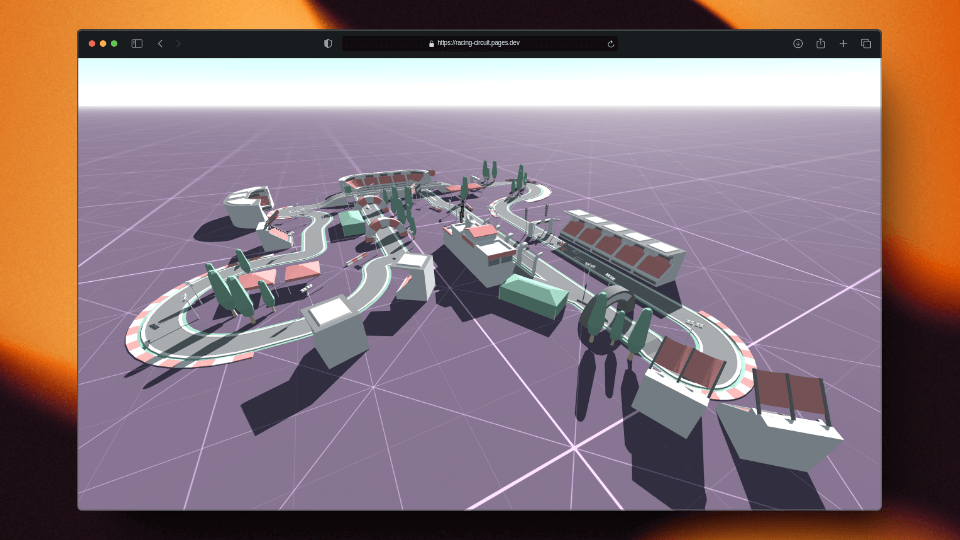
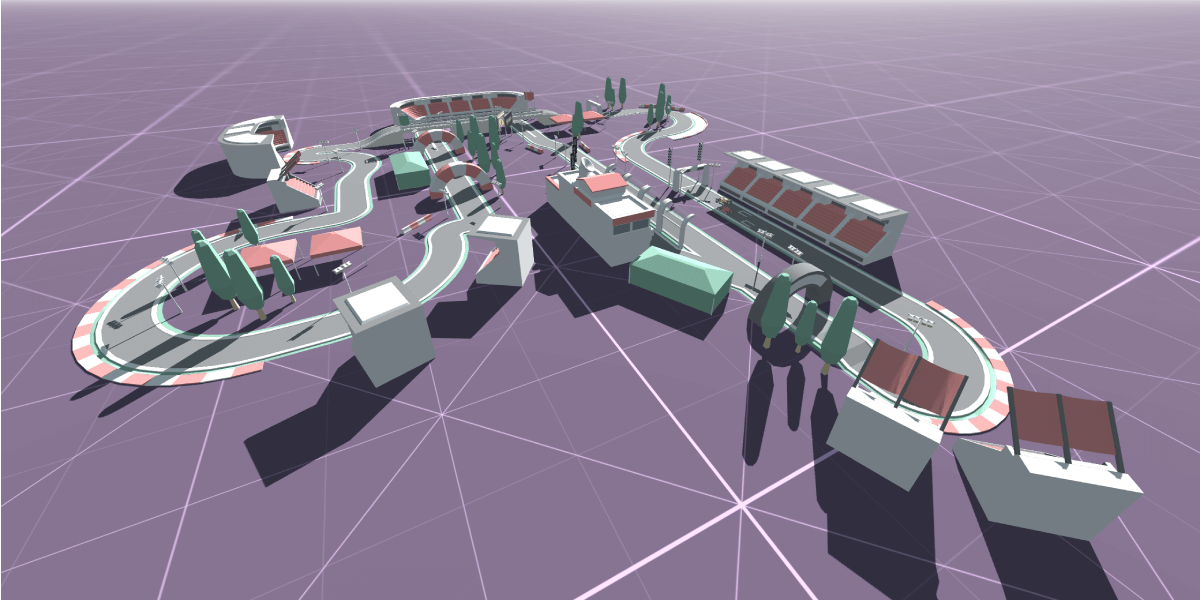
chore: change og image

diff --git a/README.md b/README.md
@@ -5,7 +5,7 @@
 
 <div align="center">
  <a href="https://racing-circuit.pages.dev">
-    <img src="./public/og.png" alt="Preview image of the project" />
+    <img src="./.github/assets/preview.png" alt="Preview image of the project" />
   </a>
 </div>
 
